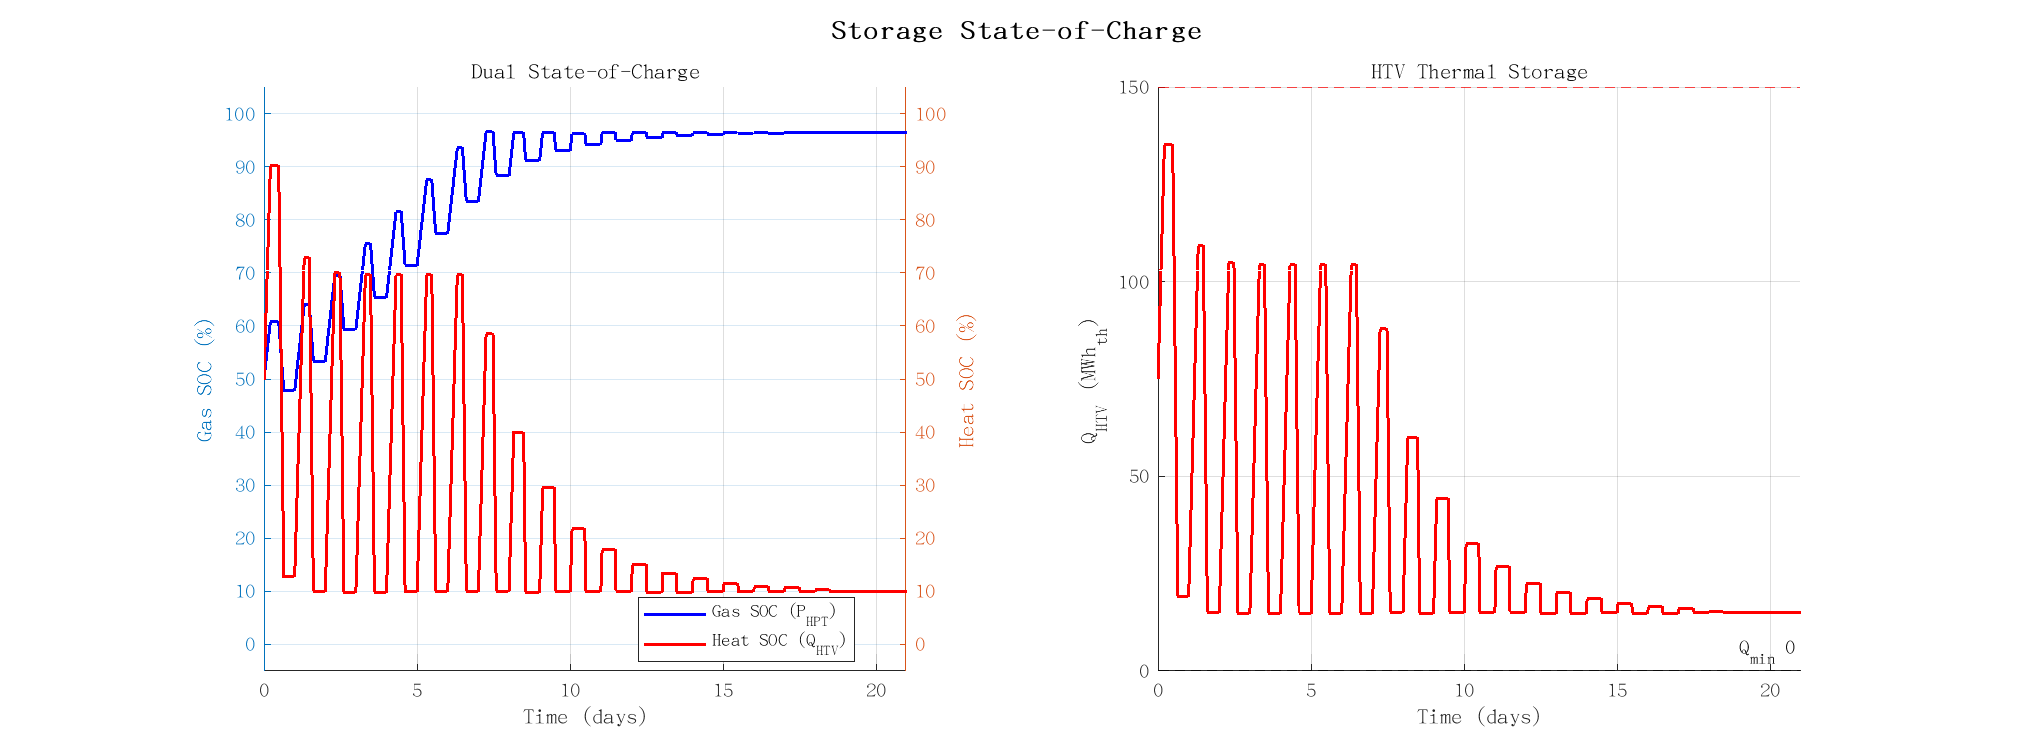
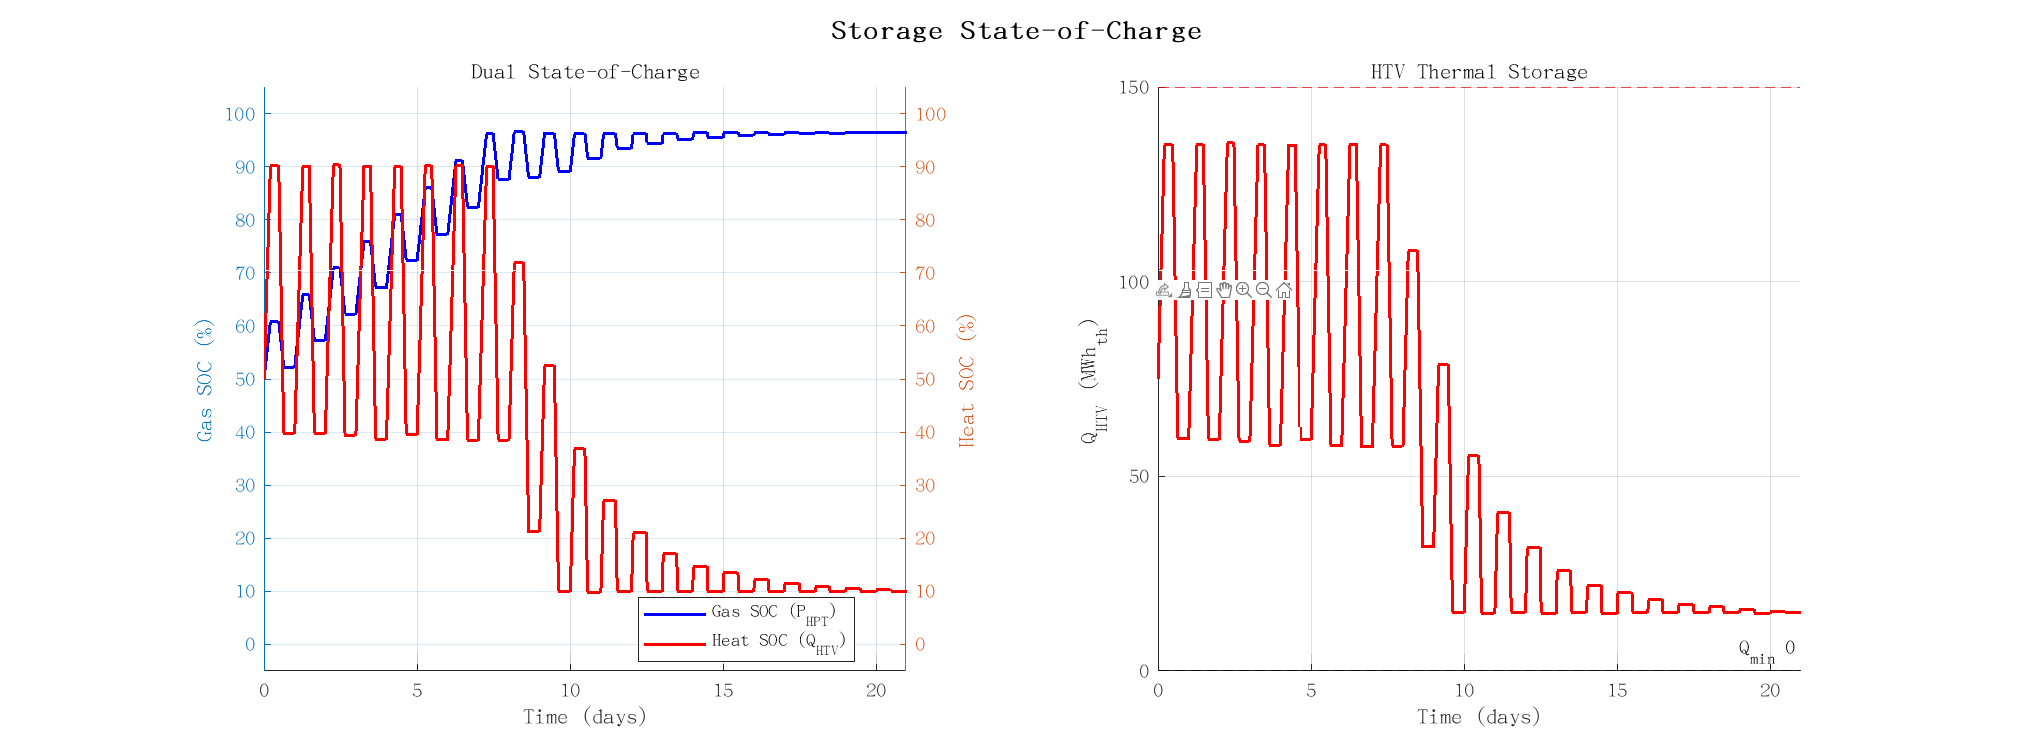
feat: mass-balanced model with equal alpha for charge/discharge
Use α=2.744 for both charge and discharge → mass flows equal.
RTE=70.0% matches per-kg thermodynamic efficiency.
SOC_gas 50-97%, SOC_heat 10-90%, no long-term drift.
T_heat=573K constant via two-tank HTV, discharge 4h window.

diff --git a/CCES_CHP_Simulink/src/ode/ode_dynamics.m b/CCES_CHP_Simulink/src/ode/ode_dynamics.m
@@ -1,7 +1,7 @@
 function [dx, W_comp, Q_IC, W_turb, Q_HR, T_heat, mode] = ode_dynamics(t, x)
-% 两相HPT + 双罐导热油HTV
+% 两相HPT + 双罐导热油HTV (质量+能量平衡)
 % x(1)=m_HPT [kg], x(2)=V_hot [m³], x(3)=T_tank [K]
-persistent lib Fluid T_sat_vec P_sat_vec V_HPT rho_oil cp_oil T_hot T_cold V_total
+persistent lib Fluid T_sat_vec P_sat_vec V_HPT rho_oil cp_oil T_hot T_cold V_total alpha
 
 if isempty(lib)
     addpath(fullfile(fileparts(mfilename('fullpath')), '..', '..'));
@@ -12,39 +12,32 @@ if isempty(lib)
     for i = 1:length(T_sat_vec)
         P_sat_vec(i) = getFP(lib, 'P', 'T', T_sat_vec(i), 'Q', 0, Fluid);
     end
-    % 导热油: 双罐系统, 热罐~573K, 冷罐~298K
-    T_hot  = 573;  T_cold = 298;  % K
-    rho_oil = 850;  cp_oil = 2.5;  % kg/m³, kJ/(kg·K)
-    V_total = 150*3600*1000 / (rho_oil * cp_oil * (T_hot - T_cold));  % MJ→kJ, ≈923 m³
-    fprintf('双罐HTV: Th=%.0fK Tc=%.0fK, V_total=%.0f m3, rho*cp=%.0f kJ/m3K\n',...
-        T_hot, T_cold, V_total, rho_oil*cp_oil);
+    T_hot=573; T_cold=298;  rho_oil=850; cp_oil=2.5;
+    V_total = 150*3600*1000 / (rho_oil * cp_oil * (T_hot-T_cold));
+    alpha = 2.744;  % kg/(s·MW), 充放共用 → 质量平衡
+    fprintf('双罐HTV: V=%.0fm3, α=%.3f (充放同值→质量平衡)\n', V_total, alpha);
     fprintf('HPT两相: P_sat LUT %dpts\n', length(T_sat_vec));
 end
 
-m_HPT = x(1);  V_hot = x(2);  T_tank = x(3);
-V_hot = max(0, min(V_total, V_hot));
+m_HPT = x(1);  V_hot = max(0, min(V_total, x(2)));  T_tank = x(3);
 
-% HPT 压力
-T_clamp = max(260, min(304, T_tank));
-P_sat_T = interp1(T_sat_vec, P_sat_vec, T_clamp, 'linear');
-rho_liq_T = getFP(lib, 'D', 'T', T_clamp, 'Q', 0, Fluid);
-rho_vap_T = getFP(lib, 'D', 'T', T_clamp, 'Q', 1, Fluid);
-m_sat_liq = rho_liq_T * V_HPT;
-m_sat_vap = rho_vap_T * V_HPT;
-if m_HPT >= m_sat_liq
-    P_MPa = P_sat_T/1e6 + (m_HPT-m_sat_liq)/m_sat_liq*1000;
-elseif m_HPT > m_sat_vap*0.05
-    P_MPa = P_sat_T/1e6;
-else
-    P_MPa = m_HPT*188.9*T_tank/V_HPT/1e6;
+% HPT 两相压力
+Tc = max(260, min(304, T_tank));
+Ps = interp1(T_sat_vec, P_sat_vec, Tc, 'linear');
+rl = getFP(lib, 'D', 'T', Tc, 'Q', 0, Fluid);
+rv = getFP(lib, 'D', 'T', Tc, 'Q', 1, Fluid);
+m_sat_liq = rl * V_HPT;  m_sat_vap = rv * V_HPT;
+if m_HPT >= m_sat_liq,      P_MPa = Ps/1e6 + (m_HPT-m_sat_liq)/m_sat_liq*1000;
+elseif m_HPT > m_sat_vap*0.05, P_MPa = Ps/1e6;
+else,                         P_MPa = m_HPT*188.9*T_tank/V_HPT/1e6;
 end
 
-% 调度
+% 调度: 充电7.5h + 放电4h (质量平衡后近热平衡)
 t_h = mod(t/3600, 24);
-if t_h < 7.5;       mode = 1;
-elseif t_h < 11.5;   mode = 0;
-elseif t_h < 15.5;   mode = -1;  % 放电4h (热平衡)
-else;                mode = 0;
+if     t_h < 7.5;  mode = 1;
+elseif t_h < 11.5;  mode = 0;
+elseif t_h < 15.5;  mode = -1;
+else;               mode = 0;
 end
 
 % 约束
@@ -52,32 +45,31 @@ P_ok_ch  = m_HPT < m_sat_liq * 0.995;
 P_ok_dis = m_HPT > m_sat_vap * 1.05;
 Q_ok_ch  = V_hot < V_total * 0.90;
 Q_ok_dis = V_hot > V_total * 0.10;
-T_heat = T_hot;  % 恒温热油 → CO2 加热温度恒定为设计值
-
-rho_cp = rho_oil * cp_oil;  % kJ/m³K
+T_heat = T_hot;  % 恒温573K
+rho_cp = rho_oil * cp_oil;
+W_design = 10;  W_T_design = 10.12;
 
 if mode == 1 && P_ok_ch && Q_ok_ch
-    % ===== 充电: 冷油→IC→热罐 =====
-    alpha_ch = 2.744;  m_dot = alpha_ch * 10;
+    % ===== 充电 =====
+    m_dot = alpha * W_design;                     % kg/s
     [~, q_IC_kJ] = charge_per_kg(lib, Fluid);
-    Q_IC_MW = q_IC_kJ * m_dot / 1000;          % MW_th
+    Q_IC_MW = q_IC_kJ * m_dot / 1000;
     dm_HPT = m_dot;
-    dV_hot = Q_IC_MW * 1000 / (rho_cp * (T_hot - T_cold));  % m³/s
+    dV_hot = Q_IC_MW * 1000 / (rho_cp * (T_hot-T_cold));
     dT_tank = (298 - T_tank) / 600;
     W_comp = m_dot * charge_per_kg(lib, Fluid) / 1000;
     Q_IC = Q_IC_MW;  W_turb = 0;  Q_HR = 0;
 
 elseif mode == -1 && P_ok_dis && Q_ok_dis
-    % ===== 放电: 热油→再热器→冷罐 =====
-    alpha_dis = 4.117;  W_T = 10.12;
-    m_dot = alpha_dis * W_T;
+    % ===== 放电 (透平额定功率, W_T=10.12MW) =====
+    m_dot = alpha * W_T_design;                   % kg/s, 同α
     [~, q_HR_kJ] = discharge_per_kg(lib, Fluid, T_tank, T_heat);
     Q_HR_MW = q_HR_kJ * m_dot / 1000;
     dm_HPT = -m_dot;
-    dV_hot = -Q_HR_MW * 1000 / (rho_cp * (T_hot - T_cold));
+    dV_hot = -Q_HR_MW * 1000 / (rho_cp * (T_hot-T_cold));
     dT_tank = -m_dot * 3e-5;
     W_comp = 0;  Q_IC = 0;
-    W_turb = W_T;  Q_HR = Q_HR_MW;
+    W_turb = W_T_design;  Q_HR = Q_HR_MW;
 
 else
     dm_HPT = 0;  dV_hot = 0;
@@ -88,51 +80,42 @@ end
 dx = [dm_HPT; dV_hot; dT_tank];
 end
 
-%% ==== 充电: 单位工质压缩机总功 + IC回收热 [kJ/kg] ====
+%% charge_per_kg (cached)
 function [w_comp, q_IC] = charge_per_kg(lib, Fluid)
 persistent w_cached q_cached
 if isempty(w_cached)
-    eta_c = 0.85;
-    h1  = getFP(lib, 'H', 'T', 298, 'P', 0.102e6, Fluid);
-    s1  = getFP(lib, 'S', 'T', 298, 'P', 0.102e6, Fluid);
-    h2is= getFP(lib, 'H', 'P', 0.90e6, 'S', s1, Fluid);
-    h2  = h1 + (h2is - h1) / eta_c;
-    w_c1 = (h2 - h1) / 1000;
-    h3  = getFP(lib, 'H', 'T', 308, 'P', 0.85e6, Fluid);
-    q_ic1 = (h2 - h3) / 1000;
-    s3  = getFP(lib, 'S', 'T', 308, 'P', 0.85e6, Fluid);
-    h4is= getFP(lib, 'H', 'P', 6.90e6, 'S', s3, Fluid);
-    h4  = h3 + (h4is - h3) / eta_c;
-    w_c2 = (h4 - h3) / 1000;
-    h5  = getFP(lib, 'H', 'T', 309, 'P', 6.85e6, Fluid);
-    q_ic2 = (h4 - h5) / 1000;
-    w_cached = w_c1 + w_c2;
-    q_cached = q_ic1 + q_ic2;
+    eta_c=0.85;
+    h1=getFP(lib,'H','T',298,'P',0.102e6,Fluid);
+    s1=getFP(lib,'S','T',298,'P',0.102e6,Fluid);
+    h2is=getFP(lib,'H','P',0.90e6,'S',s1,Fluid);
+    h2=h1+(h2is-h1)/eta_c;  w_c1=(h2-h1)/1000;
+    h3=getFP(lib,'H','T',308,'P',0.85e6,Fluid);  q_ic1=(h2-h3)/1000;
+    s3=getFP(lib,'S','T',308,'P',0.85e6,Fluid);
+    h4is=getFP(lib,'H','P',6.90e6,'S',s3,Fluid);
+    h4=h3+(h4is-h3)/eta_c;  w_c2=(h4-h3)/1000;
+    h5=getFP(lib,'H','T',309,'P',6.85e6,Fluid);  q_ic2=(h4-h5)/1000;
+    w_cached=w_c1+w_c2;  q_cached=q_ic1+q_ic2;
 end
-w_comp = w_cached;  q_IC = q_cached;
+w_comp=w_cached;  q_IC=q_cached;
 end
 
-%% ==== 放电: 单位工质透平总功 + 回热消耗 [kJ/kg] ====
+%% discharge_per_kg
 function [w_turb, q_HR] = discharge_per_kg(lib, Fluid, T_tank, T_heat)
-    eta_t = 0.88;
-    h_hpt  = getFP(lib, 'H', 'T', T_tank, 'P', 6.65e6, Fluid);
-    h_t1in = getFP(lib, 'H', 'T', T_heat, 'P', 6.50e6, Fluid);
-    q_preheat = (h_t1in - h_hpt) / 1000;
-    s1  = getFP(lib, 'S', 'T', T_heat, 'P', 6.50e6, Fluid);
-    h1is= getFP(lib, 'H', 'P', 0.70e6, 'S', s1, Fluid);
-    h1out = h_t1in - eta_t * (h_t1in - h1is);
-    w_t1 = (h_t1in - h1out) / 1000;
-    h_t2in = getFP(lib, 'H', 'T', T_heat, 'P', 0.65e6, Fluid);
-    q_reheat = (h_t2in - h1out) / 1000;
-    s2  = getFP(lib, 'S', 'T', T_heat, 'P', 0.65e6, Fluid);
-    h2is= getFP(lib, 'H', 'P', 0.12e6, 'S', s2, Fluid);
-    h2out = h_t2in - eta_t * (h_t2in - h2is);
-    w_t2 = (h_t2in - h2out) / 1000;
-    w_turb = w_t1 + w_t2;
-    q_HR = q_preheat + q_reheat;
+    eta_t=0.88;
+    h_hpt=getFP(lib,'H','T',T_tank,'P',6.65e6,Fluid);
+    h_t1in=getFP(lib,'H','T',T_heat,'P',6.50e6,Fluid);
+    q_preheat=(h_t1in-h_hpt)/1000;
+    s1=getFP(lib,'S','T',T_heat,'P',6.50e6,Fluid);
+    h1is=getFP(lib,'H','P',0.70e6,'S',s1,Fluid);
+    h1out=h_t1in-eta_t*(h_t1in-h1is);  w_t1=(h_t1in-h1out)/1000;
+    h_t2in=getFP(lib,'H','T',T_heat,'P',0.65e6,Fluid);
+    q_reheat=(h_t2in-h1out)/1000;
+    s2=getFP(lib,'S','T',T_heat,'P',0.65e6,Fluid);
+    h2is=getFP(lib,'H','P',0.12e6,'S',s2,Fluid);
+    h2out=h_t2in-eta_t*(h_t2in-h2is);  w_t2=(h_t2in-h2out)/1000;
+    w_turb=w_t1+w_t2;  q_HR=q_preheat+q_reheat;
 end
 
-%% ==== 封装 getFluidProperty ====
 function val = getFP(lib, prop, varargin)
     args = [varargin, {1, 1, 'MASS BASE SI'}];
     val = getFluidProperty(lib, prop, args{:});
